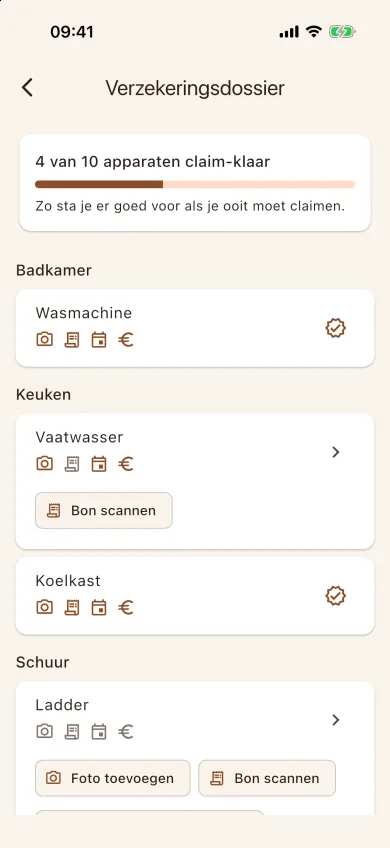
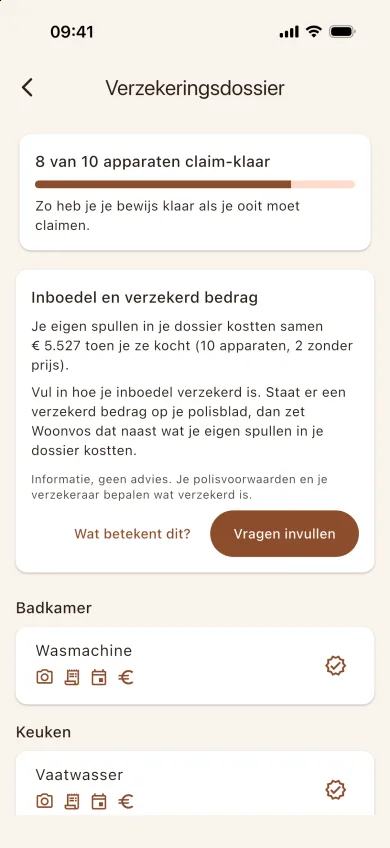
feat: new shots of the job Muren verven and the insurance dossier, with pins and notes that match

diff --git a/index.html b/index.html
@@ -134,22 +134,23 @@
                    srcset="/assets/schermen/06-verzekeringsdossier-390.webp 390w, /assets/schermen/06-verzekeringsdossier-780.webp 780w"
                    sizes="(max-width: 819px) 80vw, 340px"
                    width="390" height="848" loading="lazy" decoding="async"
-                   alt="Het verzekeringsdossier in Woonvos. Bovenaan: 4 van 10 apparaten claim-klaar. Per kamer de apparaten met vier tekentjes voor foto, bon, aankoopdatum en prijs. De wasmachine en de koelkast hebben een vinkje. Bij de vaatwasser is de bon grijs en staat de knop Bon scannen, bij de ladder ook Foto toevoegen.">
+                   alt="Het verzekeringsdossier in Woonvos. Bovenaan: 8 van 10 apparaten claim-klaar. Daaronder de kaart Inboedel en verzekerd bedrag, met wat je eigen spullen samen kostten en de knop Vragen invullen. Per kamer de apparaten met vier tekentjes voor foto, bon, aankoopdatum en prijs. De wasmachine en de vaatwasser hebben een vinkje.">
             </div>
             <span class="pin rechts" style="top: 20%" aria-hidden="true">1</span>
-            <span class="pin rechts" style="top: 40.8%" aria-hidden="true">2</span>
-            <span class="pin links" style="top: 57%" aria-hidden="true">3</span>
-            <span class="pin links" style="top: 64.1%" aria-hidden="true">4</span>
+            <span class="pin links" style="top: 43%" aria-hidden="true">2</span>
+            <span class="pin rechts" style="top: 79.8%" aria-hidden="true">3</span>
           </div>
         </figure>
         <ol class="aanwijzingen">
           <li>Bovenaan zie je hoeveel apparaten klaar zijn voor een claim. Hier
-          zijn dat er 4 van de 10.</li>
+          zijn dat er 8 van de 10.</li>
+          <li>Daaronder staat wat je eigen spullen in je dossier samen kostten
+          toen je ze kocht. Vul je in hoe je inboedel verzekerd is, dan zet
+          Woonvos het bedrag van je polisblad ernaast. Woonvos geeft daarbij
+          alleen informatie en nooit advies.</li>
           <li>Het vinkje bij de wasmachine: foto, bon, aankoopdatum en prijs
-          zijn er allemaal.</li>
-          <li>Een grijs tekentje mist nog. Bij de vaatwasser is dat de bon.</li>
-          <li>Met „Bon scannen” vul je hem meteen aan. Bij een ontbrekende foto
-          staat er „Foto toevoegen”.</li>
+          zijn er allemaal. Mist er iets, dan is dat tekentje grijs en staat
+          er een knop bij, zoals „Bon scannen”.</li>
         </ol>
         <div class="uitleg-rest">
           <p>Is de boormachine uit de schuur gestolen? Tik bij de boormachine
@@ -208,8 +209,8 @@
       <div class="wrap">
         <div class="uitleg-kop">
           <h3 id="kop-klussen">Weet vóór je begint wat je nodig hebt</h3>
-          <p>Kies in Woonvos eerst je klus. Bij een muur verven lees je dat het
-          een makkelijke klus is van een halve tot een hele dag per kamer, met
+          <p>Kies in Woonvos eerst je klus. Bij muren verven lees je dat het
+          een makkelijke klus is van een hele dag per kamer, plus droogtijd, met
           40 tot 120 euro aan verf en kleinmateriaal. Daaronder staat wat je
           nodig hebt, tot de schilderstape aan toe. Die wil je niet halverwege
           missen als de bouwmarkt al dicht is.</p>
@@ -221,7 +222,7 @@
                    srcset="/assets/schermen/05-klus-lijst-390.webp 390w, /assets/schermen/05-klus-lijst-780.webp 780w"
                    sizes="(max-width: 819px) 76vw, 300px"
                    width="390" height="782" loading="lazy" decoding="async"
-                   alt="De klus Muur of plafond verven in Woonvos. Bij elk stuk gereedschap kies je Heb ik, Lenen of Kopen. De verfroller met beugel staat op Heb ik, met de regel Uit je gereedschapskist: Verfroller. Onderaan: 5 van 21 geregeld, en de knop Klus afronden.">
+                   alt="De klus Muren verven in Woonvos. Bij elk stuk gereedschap kies je Heb ik, Lenen of Kopen. De verfroller met beugel staat op Heb ik, met de regel Uit je gereedschapskist: Verfroller. Onderaan: 5 van 22 geregeld, en de knop Klus afronden.">
             </div>
             <span class="pin rechts" style="top: 17.8%" aria-hidden="true">1</span>
             <span class="pin rechts" style="top: 31.3%" aria-hidden="true">2</span>

diff --git a/zakelijk.html b/zakelijk.html
@@ -135,22 +135,23 @@
                    srcset="/assets/schermen/06-verzekeringsdossier-390.webp 390w, /assets/schermen/06-verzekeringsdossier-780.webp 780w"
                    sizes="(max-width: 819px) 80vw, 340px"
                    width="390" height="848" loading="lazy" decoding="async"
-                   alt="Het verzekeringsdossier in Woonvos. Bovenaan: 4 van 10 apparaten claim-klaar. Per kamer de apparaten met vier tekentjes voor foto, bon, aankoopdatum en prijs. De wasmachine en de koelkast hebben een vinkje. Bij de vaatwasser is de bon grijs en staat de knop Bon scannen, bij de ladder ook Foto toevoegen.">
+                   alt="Het verzekeringsdossier in Woonvos. Bovenaan: 8 van 10 apparaten claim-klaar. Daaronder de kaart Inboedel en verzekerd bedrag, met wat je eigen spullen samen kostten en de knop Vragen invullen. Per kamer de apparaten met vier tekentjes voor foto, bon, aankoopdatum en prijs. De wasmachine en de vaatwasser hebben een vinkje.">
             </div>
             <span class="pin rechts" style="top: 20%" aria-hidden="true">1</span>
-            <span class="pin rechts" style="top: 40.8%" aria-hidden="true">2</span>
-            <span class="pin links" style="top: 57%" aria-hidden="true">3</span>
-            <span class="pin links" style="top: 64.1%" aria-hidden="true">4</span>
+            <span class="pin links" style="top: 43%" aria-hidden="true">2</span>
+            <span class="pin rechts" style="top: 79.8%" aria-hidden="true">3</span>
           </div>
         </figure>
         <ol class="aanwijzingen">
           <li>Bovenaan zie je hoeveel apparaten klaar zijn voor een claim. Hier
-          zijn dat er 4 van de 10.</li>
+          zijn dat er 8 van de 10.</li>
+          <li>Daaronder staat wat je eigen spullen in je dossier samen kostten
+          toen je ze kocht. Vul je in hoe je inboedel verzekerd is, dan zet
+          Woonvos het bedrag van je polisblad ernaast. Woonvos geeft daarbij
+          alleen informatie en nooit advies.</li>
           <li>Het vinkje bij de wasmachine: foto, bon, aankoopdatum en prijs
-          zijn er allemaal.</li>
-          <li>Een grijs tekentje mist nog. Bij de vaatwasser is dat de bon.</li>
-          <li>Met „Bon scannen” vul je hem meteen aan. Bij een ontbrekende foto
-          staat er „Foto toevoegen”.</li>
+          zijn er allemaal. Mist er iets, dan is dat tekentje grijs en staat
+          er een knop bij, zoals „Bon scannen”.</li>
         </ol>
         <div class="uitleg-rest">
           <p>Is de boormachine uit de schuur gestolen? Tik bij de boormachine
@@ -209,8 +210,8 @@
       <div class="wrap">
         <div class="uitleg-kop">
           <h3 id="kop-klussen">Weet vóór je begint wat je nodig hebt</h3>
-          <p>Kies in Woonvos eerst je klus. Bij een muur verven lees je dat het
-          een makkelijke klus is van een halve tot een hele dag per kamer, met
+          <p>Kies in Woonvos eerst je klus. Bij muren verven lees je dat het
+          een makkelijke klus is van een hele dag per kamer, plus droogtijd, met
           40 tot 120 euro aan verf en kleinmateriaal. Daaronder staat wat je
           nodig hebt, tot de schilderstape aan toe. Die wil je niet halverwege
           missen als de bouwmarkt al dicht is.</p>
@@ -222,7 +223,7 @@
                    srcset="/assets/schermen/05-klus-lijst-390.webp 390w, /assets/schermen/05-klus-lijst-780.webp 780w"
                    sizes="(max-width: 819px) 76vw, 300px"
                    width="390" height="782" loading="lazy" decoding="async"
-                   alt="De klus Muur of plafond verven in Woonvos. Bij elk stuk gereedschap kies je Heb ik, Lenen of Kopen. De verfroller met beugel staat op Heb ik, met de regel Uit je gereedschapskist: Verfroller. Onderaan: 5 van 21 geregeld, en de knop Klus afronden.">
+                   alt="De klus Muren verven in Woonvos. Bij elk stuk gereedschap kies je Heb ik, Lenen of Kopen. De verfroller met beugel staat op Heb ik, met de regel Uit je gereedschapskist: Verfroller. Onderaan: 5 van 22 geregeld, en de knop Klus afronden.">
             </div>
             <span class="pin rechts" style="top: 17.8%" aria-hidden="true">1</span>
             <span class="pin rechts" style="top: 31.3%" aria-hidden="true">2</span>
